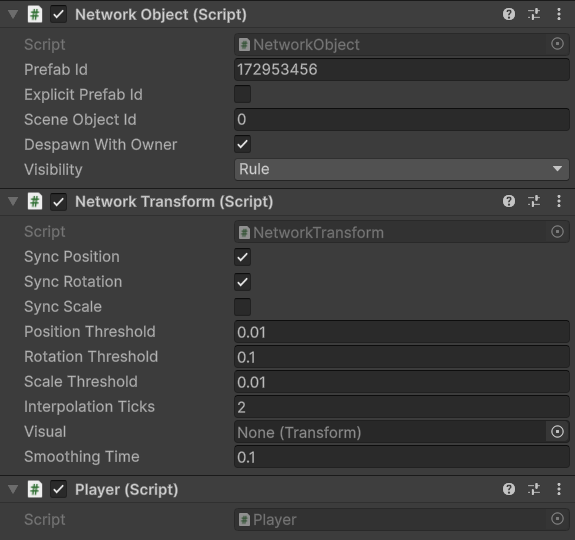
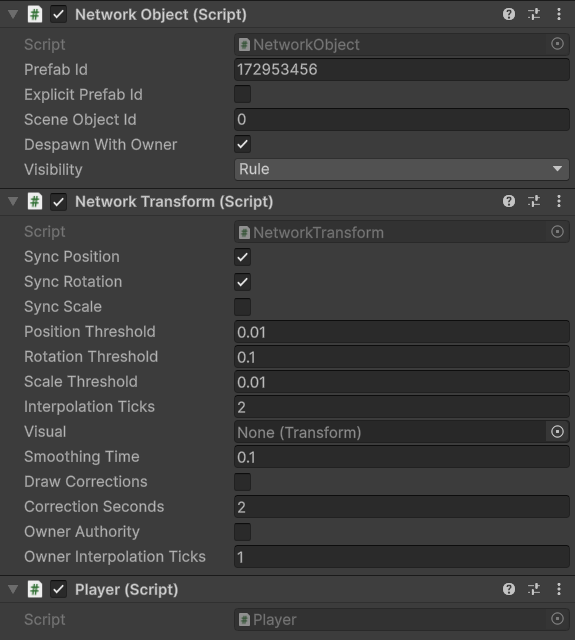
Let the owner decide a NetworkTransform in the Unity tier

diff --git a/diagrams/d_concepts.py b/diagrams/d_concepts.py
@@ -229,9 +229,9 @@ def tick_numbers(language):
 @diagram('authority')
 def authority(language):
     t = translator(language)
-    canvas = Canvas(920, 316, t('What a client can send and what the package checks', 'Client gửi được gì và package kiểm tra gì'))
-    canvas.box(30, 40, 150, 190, 'client', t('Client', 'Client'), [t('asks', 'xin phép')])
-    canvas.box(740, 40, 150, 190, 'server', t('Server', 'Server'), [t('decides', 'quyết định')])
+    canvas = Canvas(920, 400, t('What a client can send and what the package checks', 'Client gửi được gì và package kiểm tra gì'))
+    canvas.box(30, 40, 150, 256, 'client', t('Client', 'Client'), [t('asks', 'xin phép')])
+    canvas.box(740, 40, 150, 256, 'server', t('Server', 'Server'), [t('decides', 'quyết định')])
     paths = [
         ('server RPC', t('checked: the caller owns the object,', 'kiểm tra: người gọi là owner,'),
          t('unless RequireOwnership = false', 'trừ khi RequireOwnership = false'), 'client'),
@@ -239,6 +239,8 @@ def authority(language):
          t('and the tick is not past or too far ahead', 'và tick không quá cũ hay quá xa'), 'client'),
         (t('raw message', 'raw message'), t('not checked: the handler gets', 'không kiểm tra: handler nhận'),
          t('the sender\'s peer id', 'peer id của người gửi'), 'muted'),
+        (t('owner transform', 'owner transform'), t('checked: the sender is the current owner and the server', 'kiểm tra: người gửi là owner hiện tại và được server'),
+         t('lets it decide; OwnerSampleFilter can check the values', 'cho quyết định; OwnerSampleFilter kiểm tra được giá trị'), 'client'),
     ]
     for index, (name, first, second, kind) in enumerate(paths):
         y = 56 + index * 66
@@ -246,11 +248,14 @@ def authority(language):
         canvas.text(206, y + 2, name, 12.5, 700, color=INK, mono=index < 2)
         canvas.text(330, y + 2, first, 12, 400, color='#374151')
         canvas.text(330, y + 19, second, 12, 400, color=MUTED)
-    canvas.text(30, 266, t('The package checks who sends, not what is sent. Check values such as speeds and positions in your handler.',
+    canvas.text(30, 332, t('The package checks who sends, not what is sent. Check values such as speeds and positions in your handler.',
                            'Package kiểm tra ai gửi, không kiểm tra nội dung gửi. Hãy tự kiểm tra các giá trị như tốc độ, vị trí trong handler.'),
                 12.5, 600, color=KINDS['accent'][2])
-    canvas.text(30, 292, t('Only the server spawns, despawns, changes owners, changes state, moves objects, loads network scenes and chooses observers.',
-                           'Chỉ server spawn, despawn, đổi owner, đổi state, dời object, load network scene và chọn observer.'),
+    canvas.text(30, 358, t('Only the server spawns, despawns, changes owners, changes state, loads network scenes and chooses observers.',
+                           'Chỉ server spawn, despawn, đổi owner, đổi state, load network scene và chọn observer.'),
+                12.5, 400, color=MUTED)
+    canvas.text(30, 376, t('It also moves objects, unless it lets the owner decide a NetworkTransform.',
+                           'Server cũng dời object, trừ khi cho owner quyết định một NetworkTransform.'),
                 12.5, 400, color=MUTED)
     return canvas
 

diff --git a/synchronization/transform.md b/synchronization/transform.md
@@ -63,9 +63,69 @@ Clients then jump to the new values instead of interpolating across the distance
 
 For an object with a physics body, set the body's position as well, as described in [NetworkBody](../physics/physics-body.md#teleporting).
 
+## Letting the owner decide
+
+Some objects should move on the owner's screen the moment the player presses a key, without the input and replay of [prediction](../concepts/prediction.md). Turn on Owner Authority on their `NetworkTransform`. The owner's client then reads its own transform after every tick and sends it to the server with the same thresholds, updates and settle that the server uses. The server shows the owner's movement up to Owner Interpolation Ticks (1 by default) behind the owner's newest sample, writes it into the object and forwards it to every other observer. With 0 the server applies each sample on the tick it arrives, which adds no delay but passes the owner's jitter on to everyone else.
+
+Owner Authority is only the starting value. The server reads it when the object spawns, and only the server can change `OwnerAuthority` later, for example to take a character back during a cutscene. Setting it on a client after spawn throws `InvalidOperationException`, and the flag in a client build has no effect. An object without an owner stays with the server.
+
+The owner's client knows it may move the object while `IsOwnerSending` is true. Move the transform only then, because anything you set while the server decides is overwritten:
+
+```csharp
+using Fomoxa.Unity;
+using UnityEngine;
+
+public sealed class OwnerWalker : NetworkBehaviour
+{
+    [SerializeField] private float speed = 4f;
+
+    private void Update()
+    {
+        if (!GetComponent<NetworkTransform>().IsOwnerSending)
+        {
+            return;
+        }
+
+        var direction = new Vector3(Input.GetAxisRaw("Horizontal"), 0f, Input.GetAxisRaw("Vertical"));
+        transform.position += direction * (speed * Time.deltaTime);
+    }
+}
+```
+
+On the server, a `Rigidbody`, `Rigidbody2D` or Rapier body on the same GameObject becomes kinematic while the owner decides, and the server moves it to each pose it applies. The body gets its old kind back when the owner stops deciding or the object despawns. The owner's client keeps the body as you set it up. If that client also predicts physics, the object stays a kinematic proxy there like any other object it does not predict, so move it through its transform.
+
+### Checking the owner's samples
+
+The server can still refuse a sample. Set `OwnerSampleFilter` on the server to look at each sample before it is applied. It receives the last sample the server accepted, the incoming one with every synced part filled in, and the number of the owner's ticks between them. Return `false` to drop the incoming sample:
+
+```csharp
+using Fomoxa.Unity;
+using UnityEngine;
+
+public sealed class SpeedLimit : NetworkBehaviour
+{
+    [SerializeField] private float maxSpeed = 6f;
+
+    public override void OnStartServer()
+    {
+        float tickSeconds = (float)NetworkManager.TimeManager.TickDelta;
+        GetComponent<NetworkTransform>().OwnerSampleFilter = (in NetworkTransformSample accepted, in NetworkTransformSample incoming, uint ticks) =>
+            ticks == 0 || Vector3.Distance(accepted.LocalPosition, incoming.LocalPosition) <= maxSpeed * ticks * tickSeconds;
+    }
+}
+```
+
+`ticks` is 0 for the first sample after the owner starts deciding and for a teleport by the owner. In both cases `accepted` holds the pose the server has at that moment. A dropped sample is not applied or forwarded, and the owner is not told. To put the owner back where the server wants it, set the transform on the server and call `Teleport()`. The owner jumps there and goes on sending from the new place, and the server ignores whatever the owner sent before it got the correction. The filter runs while the server delivers the owner's message, so an exception thrown by it is a [handler exception](../concepts/error-handling.md#exceptions-in-server-handlers): the server raises `OnHandlerException` and closes the owner's connection unless a subscriber clears `Disconnect`.
+
+The owner can call `Teleport()` too, after moving its own object somewhere new. The server then applies that sample at once instead of interpolating to it, and makes the other clients jump.
+
+### Not with prediction
+
+An object cannot be both predicted and decided by its owner, because both would write the owner's pose. A player build fails when a prefab or a scene object has a `NetworkTransform` with Owner Authority on and any of its behaviours declares a `[NetworkInput]` or `[NetworkReconcile]` field. At run time, spawning such an object with Owner Authority on, or turning it on later, throws `InvalidOperationException` on the server.
+
 ## Configuration
 
-<figure><img src="../.gitbook/assets/screenshots/network-transform-inspector.png" alt="The Inspector of a NetworkTransform with its defaults: Sync Position and Sync Rotation on, Sync Scale off, Position Threshold 0.01, Rotation Threshold 0.1, Scale Threshold 0.01, Interpolation Ticks 2, Visual None and Smoothing Time 0.1." width="460"><figcaption><p>A NetworkTransform with its default values.</p></figcaption></figure>
+<figure><img src="../.gitbook/assets/screenshots/network-transform-inspector.png" alt="The Inspector of a NetworkTransform with its defaults: Sync Position and Sync Rotation on, Sync Scale off, Position Threshold 0.01, Rotation Threshold 0.1, Scale Threshold 0.01, Interpolation Ticks 2, Visual None, Smoothing Time 0.1, Draw Corrections off, Correction Seconds 2, Owner Authority off and Owner Interpolation Ticks 1." width="460"><figcaption><p>A NetworkTransform with its default values.</p></figcaption></figure>
 
 | Field | Default | Meaning |
 |---|---|---|
@@ -78,11 +138,13 @@ For an object with a physics body, set the body's position as well, as described
 | Interpolation Ticks | 2 | At most how many ticks behind the newest snapshot clients show the object |
 | Visual | none | A child transform that is smoothed after prediction corrections |
 | Smoothing Time | 0.1 | Seconds over which the Visual returns to its rest position |
+| Owner Authority | off | Let the owner's client decide the transform, starting at spawn |
+| Owner Interpolation Ticks | 1 | How many of the owner's ticks behind its newest sample the server applies the owner's movement |
 
-`Visual` and `SmoothingTime` can also be set from code, while the sync flags and `InterpolationTicks` are read-only there.
+`Visual` and `SmoothingTime` can also be set from code, and `OwnerAuthority` can be set on the server, while the sync flags, `InterpolationTicks` and `OwnerInterpolationTicks` are read-only there.
 
 ## Limitations
 
-Transforms flow from the server to clients only, and a client can move a networked object for others only through RPCs or input. Values are replicated in local space, and re-parenting a replicated object at run time is not replicated. Movement that stays within a threshold of the last sent value is only sent once the object stops. On a host, the server's transform is shown as it is, without interpolation for the host's own view.
+Unless Owner Authority is on, transforms flow from the server to clients only, and a client can move a networked object for others only through RPCs or input. Values are replicated in local space, and re-parenting a replicated object at run time is not replicated. Movement that stays within a threshold of the last sent value is only sent once the object stops. On a host, the server's transform is shown as it is, without interpolation for the host's own view.
 
 [Replication](../concepts/replication.md) explains how transform messages fit with the other messages, the [prediction overview](../prediction/overview.md) shows `NetworkTransform` on a predicted character, and the [components reference](../reference/components.md#networktransform) lists its members.

diff --git a/vi/concepts/authority.md b/vi/concepts/authority.md
@@ -2,13 +2,13 @@
 
 Package theo mô hình server-authoritative. Server giữ game state thật và là phía duy nhất thay đổi được những gì người chơi khác nhìn thấy. Client chỉ có thể xin một thay đổi, còn server quyết định nó có xảy ra hay không. Một client gian lận vì thế có thể gửi yêu cầu sai, nhưng không thể trực tiếp thay đổi thế giới game.
 
-<figure><img src="../.gitbook/assets/diagrams/authority.svg" alt="Client gửi ba loại message tới server. Server RPC được kiểm tra: người gọi phải là owner của object, trừ khi RequireOwnership là false. Input được kiểm tra: người gửi phải là owner và tick không được quá cũ hay quá xa. Raw message không được kiểm tra; handler nhận peer id của người gửi. Package kiểm tra ai gửi, không kiểm tra nội dung gửi. Chỉ server spawn, despawn, đổi owner, đổi state, dời object, load network scene và chọn observer."><figcaption><p>Ba đường client có thể tới server, và package kiểm tra gì trên mỗi đường.</p></figcaption></figure>
+<figure><img src="../.gitbook/assets/diagrams/authority.svg" alt="Client gửi bốn loại message tới server. Server RPC được kiểm tra: người gọi phải là owner của object, trừ khi RequireOwnership là false. Input được kiểm tra: người gửi phải là owner và tick không được quá cũ hay quá xa. Raw message không được kiểm tra; handler nhận peer id của người gửi. Owner transform được kiểm tra: người gửi phải là owner hiện tại và được server cho quyết định, và OwnerSampleFilter kiểm tra được giá trị. Package kiểm tra ai gửi, không kiểm tra nội dung gửi. Chỉ server spawn, despawn, đổi owner, đổi state, load network scene và chọn observer. Server cũng dời object, trừ khi cho owner quyết định một NetworkTransform."><figcaption><p>Bốn đường client có thể tới server, và package kiểm tra gì trên mỗi đường.</p></figcaption></figure>
 
 ## Những việc chỉ server làm <a href="#what-only-the-server-does" id="what-only-the-server-does"></a>
 
 Chỉ server spawn, despawn network object và đổi owner của chúng. Gọi `ServerManager.Spawn` trên một tiến trình không chạy server sẽ ném `the server is not started`.
 
-State model và [collection](../synchronization/collections.md) thay đổi trên server rồi đi xuống client, không bao giờ theo chiều ngược lại. Thay đổi một collection đã spawn trên client sẽ ném exception. Chuyển động cũng vậy: `NetworkTransform` gửi transform của server xuống client và không gửi thay đổi transform của client lên, và chỉ parameter `NetworkAnimator` của server tới được người chơi khác.
+State model và [collection](../synchronization/collections.md) thay đổi trên server rồi đi xuống client, không bao giờ theo chiều ngược lại. Thay đổi một collection đã spawn trên client sẽ ném exception. Chuyển động cũng vậy: `NetworkTransform` gửi transform của server xuống client và không gửi thay đổi transform của client lên, trừ khi server cho owner quyết định như mô tả bên dưới, và chỉ parameter `NetworkAnimator` của server tới được người chơi khác.
 
 Server cũng load và unload network scene, và quyết định client nào observe object nào.
 
@@ -19,12 +19,17 @@ Server cũng load và unload network scene, và quyết định client nào obse
 | Server RPC | Người gọi phải là owner của object, trừ khi RPC đặt `RequireOwnership = false`. Lời gọi từ peer khác bị bỏ kèm một cảnh báo. | [RPC](../messaging/rpc.md) |
 | Input cho object được dự đoán | Người gửi phải là owner của object. Input từ peer khác bị bỏ kèm một cảnh báo. Input cho tick đã qua, hoặc quá xa phía trước, bị bỏ và được đếm. | [Input](../prediction/input.md) |
 | Raw message | Không kiểm tra. Handler nhận peer id của người gửi và phải tự kiểm tra nội dung. | [Raw message](../messaging/messages.md) |
+| Transform của owner, cho `NetworkTransform` bật Owner Authority | Người gửi phải là owner hiện tại, và server phải đã cho nó quyết định. Mẫu từ một lượt trước hoặc từ trước một bản sửa bị bỏ. `OwnerSampleFilter` kiểm tra được giá trị. | [NetworkTransform](../synchronization/transform.md#letting-the-owner-decide) |
 
 Package kiểm tra ai được gửi, nhưng không kiểm tra nội dung có hợp lý hay không, như một tốc độ hay một vị trí. Hãy kiểm tra tham số trong handler RPC hoặc handler input trên server.
 
 ## Ownership không phải authority <a href="#ownership-is-not-authority" id="ownership-is-not-authority"></a>
 
 Owner là peer mà object thuộc về, như nhân vật thuộc về người chơi của nó. Ownership cho phép client đó gọi server RPC của object, và nếu object có input model, owner cũng dự đoán nó. Server vẫn là bên chạy object, và sửa prediction của owner khi nó khác kết quả của chính server. [Ownership](../objects/ownership.md) mô tả cách gán và đổi owner.
+
+## Khi owner quyết định một transform <a href="#when-the-owner-decides-a-transform" id="when-the-owner-decides-a-transform"></a>
+
+`NetworkTransform` bật Owner Authority cho client của owner quyết định đúng transform đó, nên owner di chuyển ngay mà không cần prediction. Server vẫn quyết định khi nào owner được làm vậy, chỉ nhận mẫu từ owner hiện tại, bỏ được bất kỳ mẫu nào trong `OwnerSampleFilter` và đưa owner về chỗ cũ được bằng `Teleport()`. Mọi thứ khác của object vẫn thuộc về server. Một owner gian lận có thể dời object như vậy tới bất cứ đâu bộ lọc cho phép, và trên server, va chạm và trigger sẽ dùng pose đó. Hãy dùng chế độ này cho object mà điều đó chấp nhận được, hoặc kiểm tra mẫu trong bộ lọc.
 
 ## Prediction vẫn do server quyết định <a href="#prediction-stays-server-authoritative" id="prediction-stays-server-authoritative"></a>
 

diff --git a/concepts/authority.md b/concepts/authority.md
@@ -2,13 +2,13 @@
 
 The package is server-authoritative. The server holds the real game state and is the only side that can change what other players see. A client can only ask for a change, and the server decides whether it happens. A cheating client can therefore send bad requests, but it cannot change the world directly.
 
-<figure><img src="../.gitbook/assets/diagrams/authority.svg" alt="A client sends three kinds of message to the server. A server RPC is checked: the caller must own the object unless RequireOwnership is false. Input is checked: the sender must own the object and the tick must not be past or too far ahead. A raw message is not checked; its handler gets the sender's peer id. The package checks who sends, not what is sent. Only the server spawns, despawns, changes owners, changes state, moves objects, loads network scenes and chooses observers."><figcaption><p>The three ways a client can reach the server, and what the package checks on each.</p></figcaption></figure>
+<figure><img src="../.gitbook/assets/diagrams/authority.svg" alt="A client sends four kinds of message to the server. A server RPC is checked: the caller must own the object unless RequireOwnership is false. Input is checked: the sender must own the object and the tick must not be past or too far ahead. A raw message is not checked; its handler gets the sender's peer id. An owner transform is checked: the sender must be the current owner and the server must let it decide, and OwnerSampleFilter can check the values. The package checks who sends, not what is sent. Only the server spawns, despawns, changes owners, changes state, loads network scenes and chooses observers. It also moves objects, unless it lets the owner decide a NetworkTransform."><figcaption><p>The four ways a client can reach the server, and what the package checks on each.</p></figcaption></figure>
 
 ## What only the server does
 
 Only the server spawns and despawns network objects and changes their owners. Calling `ServerManager.Spawn` on a process that is not running a server throws `the server is not started`.
 
-State models and [collections](../synchronization/collections.md) change on the server and flow to clients, never the other way. Changing a spawned collection on a client throws. The same holds for movement: `NetworkTransform` sends the server's transform to clients and does not send a client's transform changes, and only the server's `NetworkAnimator` parameters reach other players.
+State models and [collections](../synchronization/collections.md) change on the server and flow to clients, never the other way. Changing a spawned collection on a client throws. The same holds for movement: `NetworkTransform` sends the server's transform to clients and does not send a client's transform changes, unless the server lets the owner decide it as described below, and only the server's `NetworkAnimator` parameters reach other players.
 
 The server also loads and unloads network scenes, and decides which clients observe which objects.
 
@@ -19,12 +19,17 @@ The server also loads and unloads network scenes, and decides which clients obse
 | Server RPC | The caller must own the object, unless the RPC sets `RequireOwnership = false`. Calls from other peers are dropped with a warning. | [RPCs](../messaging/rpc.md) |
 | Input for a predicted object | The sender must own the object. Input from other peers is dropped with a warning. Input for ticks that are already past, or too far ahead, is dropped and counted. | [Input](../prediction/input.md) |
 | Raw message | Not checked. The handler receives the sender's peer id and must validate the content. | [Raw messages](../messaging/messages.md) |
+| The owner's transform, for a `NetworkTransform` with Owner Authority on | The sender must be the current owner, and the server must have let it decide. Samples from an earlier turn or from before a correction are dropped. `OwnerSampleFilter` can check the values. | [NetworkTransform](../synchronization/transform.md#letting-the-owner-decide) |
 
 The package checks who may send, but not whether the content is reasonable, such as a speed or a position. Validate arguments in the RPC or input handler on the server.
 
 ## Ownership is not authority
 
 An owner is the peer that an object belongs to, as a player character belongs to its player. Ownership lets that client call the object's server RPCs, and if the object has an input model, the owner also predicts it. The server still runs the object, and corrects the owner's prediction when it differs from the server's own result. [Ownership](../objects/ownership.md) describes how owners are assigned and changed.
+
+## When the owner decides a transform
+
+A `NetworkTransform` with Owner Authority on lets the owner's client decide that one transform, so the owner moves at once without prediction. The server still decides when the owner may do so, accepts samples only from the current owner, can drop any sample in `OwnerSampleFilter` and can put the owner back with `Teleport()`. Everything else about the object stays with the server. A cheating owner can move such an object wherever the filter lets it, and on the server, collisions and triggers then use that pose. Use it for objects where that is acceptable, or check the samples in the filter.
 
 ## Prediction stays server-authoritative
 

diff --git a/vi/reference/components.md b/vi/reference/components.md
@@ -17,8 +17,16 @@ Trang này nói về các component và asset trong `Fomoxa.Unity` ngoài `Netwo
 | `LastCorrection` | `TransformCorrection?` | Lần sửa gần nhất; `null` cho tới lần đầu |
 | `DrawCorrections` | `bool` | Get và set. Vẽ các lần sửa thành gizmo trong Editor. |
 | `CorrectionSeconds` | `float` | Get và set; giá trị dưới 0.1 thành 0.1 |
+| `OwnerAuthority` | `bool` | Client của owner có quyết định transform hay không, xem [cho owner quyết định](../synchronization/transform.md#letting-the-owner-decide). Trước khi spawn, nó đặt giá trị ban đầu; sau khi spawn chỉ server đặt được, và đặt trên client sẽ ném `InvalidOperationException`. Bật nó cho object có behaviour dự đoán sẽ ném `InvalidOperationException`. |
+| `OwnerInterpolationTicks` | `int` | Số tick của owner mà server áp chậm so với mẫu mới nhất của owner; chỉ đọc |
+| `OwnerSampleFilter` | `NetworkOwnerSampleFilter` | Get và set trên server. Được gọi cho mỗi mẫu của owner trước khi áp; trả `false` thì bỏ mẫu. `null` nhận mọi mẫu. |
+| `IsOwnerSending` | `bool` | `true` trên client của owner trong lúc server cho nó quyết định; `false` trên server, trên client khác và trước khi spawn |
 
 `TransformCorrection` là một `public readonly struct` trong `Fomoxa.Unity` với `uint Tick`, `Vector3 PositionBefore`, `PositionAfter`, `PositionOffset`, `Quaternion RotationBefore`, `RotationAfter` và `float RotationDegrees`.
+
+`public delegate bool NetworkOwnerSampleFilter(in NetworkTransformSample accepted, in NetworkTransformSample incoming, uint ticks)` trong `Fomoxa.Unity` là kiểu của `OwnerSampleFilter`. `accepted` là mẫu cuối mà server đã nhận, hoặc pose của server ở mẫu đầu tiên của một lượt và ở lần owner teleport, khi đó `ticks` bằng 0. Ngoài hai trường hợp đó, `ticks` là số tick của owner giữa hai mẫu.
+
+`NetworkTransformSample` là một `public readonly struct` trong `Fomoxa.Unity`, xem một `TransformSample` của Core bằng kiểu Unity: `uint Tick` (tick của owner), `byte Mask` (bit 1 vị trí, 2 góc xoay, 4 tỉ lệ: các phần owner gửi trong mẫu này), `Vector3 LocalPosition`, `Quaternion LocalRotation`, `Vector3 LocalScale`, `bool Settle`, `byte Generation`, `TransformSample Core` mà nó bọc, và hàm tạo công khai `NetworkTransformSample(TransformSample core)`. Các phần không có trong `Mask` mang giá trị của `accepted`.
 
 ## NetworkStatsDisplay <a href="#networkstatsdisplay" id="networkstatsdisplay"></a>
 

diff --git a/vi/console-server/reference.md b/vi/console-server/reference.md
@@ -67,7 +67,8 @@ Trên client console, factory phải trả về một entity chưa spawn.
 | `NetworkSettings` | `Fomoxa.Networking` | Các thiết lập mà Inspector của `NetworkManager` giữ trong Unity, dưới dạng property với cùng giá trị mặc định, và `PhysicsBackend`. Ngoại lệ là `StateMarkWarning`, một `TimeSpan` mặc định bằng 0, nên [phép kiểm quên đánh dấu state](../advanced/debugging.md#forgotten-state-marks) tắt trừ khi bạn đặt nó |
 | `NetworkLog` | `Fomoxa.Networking` | `NetworkLog(Action<Exception> exception, Action<string> warning)`, một overload thêm `Action<string> error`, và `NetworkLog.Console` |
 | `EntityBehaviour` | `Fomoxa.Networking` | Class cơ sở của behaviour console, với các callback và phần đăng ký của `NetworkBehaviour`, `SetStateDirty()`, `SyncTransform(TransformSync, ITransformReceiver)` cho tư thế của entity, `SyncTransform(TransformSync, ChildBody, ITransformReceiver)` cho tư thế của một body con so với entity và `SyncTransform(TransformSync, ITransformSource, ITransformReceiver)` cho nguồn khác |
-| `TransformSync`, `TransformSyncSettings` | `Fomoxa.Networking` | Luật gửi của `NetworkTransform`: `TransformSyncSettings(syncPosition, syncRotation, syncScale, positionThreshold, rotationThreshold, scaleThreshold)`, `TransformSync.Teleport()` |
+| `TransformSync`, `TransformSyncSettings` | `Fomoxa.Networking` | Luật gửi của `NetworkTransform`: `TransformSyncSettings(syncPosition, syncRotation, syncScale, positionThreshold, rotationThreshold, scaleThreshold)`, `TransformSync.Teleport()`, và để [cho owner quyết định](../synchronization/transform.md#letting-the-owner-decide): `OwnerAuthority`, `OwnerInterpolationTicks`, `OwnerSampleFilter` và `IsOwnerSending` |
+| `ITransformWriter`, `OwnerSampleFilter` | `Fomoxa.Networking` | `WriteLocal(in position, in rotation, in scale)`, server gọi để áp pose của owner khi owner quyết định và source là của bạn; bật `OwnerAuthority` cho source không cài nó sẽ ném `InvalidOperationException`. `bool OwnerSampleFilter(in TransformSample accepted, in TransformSample incoming, uint ticks)` |
 | `ITransformSource`, `ITransformReceiver`, `TransformSample` | `Fomoxa.Networking` | `ReadLocal(out position, out rotation, out scale)` trên server; `ResetReceive()` và `Receive(in TransformSample)` trên client |
 | `INetworkEntity`, `EntityRecord` | `Fomoxa.Networking` | Interface mà manager spawn, và bản ghi của một entity đã spawn: `ObjectId`, `OwnerId`, `IsOwner`, `OnServer`, `OnClient`, `Representation` |
 

diff --git a/console-server/reference.md b/console-server/reference.md
@@ -67,7 +67,8 @@ On a console client, the factory must return an entity that is not spawned.
 | `NetworkSettings` | `Fomoxa.Networking` | The settings that the `NetworkManager` Inspector holds in Unity, as properties with the same defaults, and `PhysicsBackend`. The exception is `StateMarkWarning`, a `TimeSpan` that is zero by default, so the [forgotten state mark check](../advanced/debugging.md#forgotten-state-marks) is off unless you set it |
 | `NetworkLog` | `Fomoxa.Networking` | `NetworkLog(Action<Exception> exception, Action<string> warning)`, an overload that adds `Action<string> error`, and `NetworkLog.Console` |
 | `EntityBehaviour` | `Fomoxa.Networking` | The base class of console behaviours, with the callbacks and registrations of `NetworkBehaviour`, `SetStateDirty()`, `SyncTransform(TransformSync, ITransformReceiver)` for the pose of the entity, `SyncTransform(TransformSync, ChildBody, ITransformReceiver)` for the pose of a child body relative to the entity and `SyncTransform(TransformSync, ITransformSource, ITransformReceiver)` for another source |
-| `TransformSync`, `TransformSyncSettings` | `Fomoxa.Networking` | The send rules of `NetworkTransform`: `TransformSyncSettings(syncPosition, syncRotation, syncScale, positionThreshold, rotationThreshold, scaleThreshold)`, `TransformSync.Teleport()` |
+| `TransformSync`, `TransformSyncSettings` | `Fomoxa.Networking` | The send rules of `NetworkTransform`: `TransformSyncSettings(syncPosition, syncRotation, syncScale, positionThreshold, rotationThreshold, scaleThreshold)`, `TransformSync.Teleport()`, and for [letting the owner decide](../synchronization/transform.md#letting-the-owner-decide) `OwnerAuthority`, `OwnerInterpolationTicks`, `OwnerSampleFilter` and `IsOwnerSending` |
+| `ITransformWriter`, `OwnerSampleFilter` | `Fomoxa.Networking` | `WriteLocal(in position, in rotation, in scale)`, which the server calls to apply the owner's pose when the owner decides and the source is your own; turning on `OwnerAuthority` for a source without it throws `InvalidOperationException`. `bool OwnerSampleFilter(in TransformSample accepted, in TransformSample incoming, uint ticks)` |
 | `ITransformSource`, `ITransformReceiver`, `TransformSample` | `Fomoxa.Networking` | `ReadLocal(out position, out rotation, out scale)` on the server; `ResetReceive()` and `Receive(in TransformSample)` on a client |
 | `INetworkEntity`, `EntityRecord` | `Fomoxa.Networking` | The interface the managers spawn, and the record of a spawned entity: `ObjectId`, `OwnerId`, `IsOwner`, `OnServer`, `OnClient`, `Representation` |
 

diff --git a/reference/components.md b/reference/components.md
@@ -17,8 +17,16 @@ This page covers the components and assets in `Fomoxa.Unity` other than `Network
 | `LastCorrection` | `TransformCorrection?` | The last correction; `null` until the first one |
 | `DrawCorrections` | `bool` | Get and set. Draws corrections as gizmos in the Editor. |
 | `CorrectionSeconds` | `float` | Get and set; values below 0.1 become 0.1 |
+| `OwnerAuthority` | `bool` | Whether the owner's client decides the transform, see [letting the owner decide](../synchronization/transform.md#letting-the-owner-decide). Before spawn it sets the starting value; after spawn only the server can set it, and setting it on a client throws `InvalidOperationException`. Turning it on for an object whose behaviours predict throws `InvalidOperationException`. |
+| `OwnerInterpolationTicks` | `int` | Owner ticks behind the owner's newest sample that the server applies; read only |
+| `OwnerSampleFilter` | `NetworkOwnerSampleFilter` | Get and set on the server. Called for each sample of the owner before it is applied; returning `false` drops it. `null` accepts every sample. |
+| `IsOwnerSending` | `bool` | `true` on the owner's client while the server lets it decide; `false` on the server, on other clients and before spawn |
 
 `TransformCorrection` is a `public readonly struct` in `Fomoxa.Unity` with `uint Tick`, `Vector3 PositionBefore`, `PositionAfter`, `PositionOffset`, `Quaternion RotationBefore`, `RotationAfter` and `float RotationDegrees`.
+
+`public delegate bool NetworkOwnerSampleFilter(in NetworkTransformSample accepted, in NetworkTransformSample incoming, uint ticks)` in `Fomoxa.Unity` is the type of `OwnerSampleFilter`. `accepted` is the last sample the server accepted, or the server's pose for the first sample of a turn and for a teleport by the owner, when `ticks` is 0. Otherwise `ticks` is the number of the owner's ticks between the two samples.
+
+`NetworkTransformSample` is a `public readonly struct` in `Fomoxa.Unity` that views a Core `TransformSample` with Unity types: `uint Tick` (the owner's tick), `byte Mask` (bit 1 position, 2 rotation, 4 scale: the parts the owner sent in this sample), `Vector3 LocalPosition`, `Quaternion LocalRotation`, `Vector3 LocalScale`, `bool Settle`, `byte Generation`, the `TransformSample Core` it wraps, and a public constructor `NetworkTransformSample(TransformSample core)`. The parts missing from `Mask` hold the values of `accepted`.
 
 ## NetworkStatsDisplay
 

diff --git a/vi/reference/api.md b/vi/reference/api.md
@@ -10,7 +10,7 @@ Trang này liệt kê các public type của package theo namespace. Type đánh
 | `TransportManager` | Class | [Tham chiếu NetworkManager](network-manager.md#transportmanager) |
 | `NetworkObject` | Component | [Tham chiếu](network-object.md) |
 | `NetworkBehaviour` | Component trừu tượng | [Tham chiếu](network-object.md#networkbehaviour) |
-| `NetworkTransform`, `NetworkAnimator`, `TransformCorrection` | Component, struct | [Component](components.md) |
+| `NetworkTransform`, `NetworkAnimator`, `TransformCorrection`, `NetworkTransformSample`, `NetworkOwnerSampleFilter` | Component, struct, delegate | [Component](components.md) |
 | `NetworkStatsDisplay`, `ScreenCorner` | Component, enum | [Component](components.md#networkstatsdisplay) |
 | `NetworkCollision`, `NetworkTrigger`, `NetworkCollision2D`, `NetworkTrigger2D`, `IContactQuery`, `IContactQuery2D` | Component, interface | [Component](components.md#contact-components) |
 | `ObserverRule`, `DistanceRule`, `ObserverRange` | Type asset, component | [Component](components.md#observers) |
@@ -42,7 +42,7 @@ Trang này liệt kê các public type của package theo namespace. Type đánh
 | `IServerAuthenticator`, `IClientAuthenticator`, `ServerAuthentication`, `ClientAuthentication`, `ServerAuthenticationContext`, `ClientAuthenticationContext` | Interface, class | [Xác thực](../connections/authentication.md) |
 | `TransferTickets`, `IUsedTicketStore`, `MemoryUsedTicketStore` | Class, interface, class | [Chuyển server](../connections/transfer.md#transfertickets) |
 | `ConnectTokens` | Class | [UDP mã hóa](../connections/transports/encrypted-udp.md#issuing-grants) |
-| `EntityBehaviour`, `EntityRecord`, `NetworkRuntime`, `NetworkSettings`, `NetworkBackends`, `NetworkLog`, `ITransformSource`, `ITransformReceiver`, `TransformSample`, `TransformSync`, `TransformSyncSettings` | Backend contract | [Tham chiếu backend console](../console-server/reference.md) |
+| `EntityBehaviour`, `EntityRecord`, `NetworkRuntime`, `NetworkSettings`, `NetworkBackends`, `NetworkLog`, `ITransformSource`, `ITransformReceiver`, `ITransformWriter`, `TransformSample`, `TransformSync`, `TransformSyncSettings`, `OwnerSampleFilter` | Backend contract | [Tham chiếu backend console](../console-server/reference.md) |
 
 ## Fomoxa.Networking.Messaging <a href="#fomoxanetworkingmessaging" id="fomoxanetworkingmessaging"></a>
 

diff --git a/reference/api.md b/reference/api.md
@@ -10,7 +10,7 @@ This page lists the public types of the package by namespace. Types marked "buil
 | `TransportManager` | Class | [NetworkManager reference](network-manager.md#transportmanager) |
 | `NetworkObject` | Component | [Reference](network-object.md) |
 | `NetworkBehaviour` | Abstract component | [Reference](network-object.md#networkbehaviour) |
-| `NetworkTransform`, `NetworkAnimator`, `TransformCorrection` | Components, struct | [Components](components.md) |
+| `NetworkTransform`, `NetworkAnimator`, `TransformCorrection`, `NetworkTransformSample`, `NetworkOwnerSampleFilter` | Components, structs, delegate | [Components](components.md) |
 | `NetworkStatsDisplay`, `ScreenCorner` | Component, enum | [Components](components.md#networkstatsdisplay) |
 | `NetworkCollision`, `NetworkTrigger`, `NetworkCollision2D`, `NetworkTrigger2D`, `IContactQuery`, `IContactQuery2D` | Components, interfaces | [Components](components.md#contact-components) |
 | `ObserverRule`, `DistanceRule`, `ObserverRange` | Asset types, component | [Components](components.md#observers) |
@@ -42,7 +42,7 @@ This page lists the public types of the package by namespace. Types marked "buil
 | `IServerAuthenticator`, `IClientAuthenticator`, `ServerAuthentication`, `ClientAuthentication`, `ServerAuthenticationContext`, `ClientAuthenticationContext` | Interfaces, classes | [Authentication](../connections/authentication.md) |
 | `TransferTickets`, `IUsedTicketStore`, `MemoryUsedTicketStore` | Class, interface, class | [Server transfer](../connections/transfer.md#transfertickets) |
 | `ConnectTokens` | Class | [Encrypted UDP](../connections/transports/encrypted-udp.md#issuing-grants) |
-| `EntityBehaviour`, `EntityRecord`, `NetworkRuntime`, `NetworkSettings`, `NetworkBackends`, `NetworkLog`, `ITransformSource`, `ITransformReceiver`, `TransformSample`, `TransformSync`, `TransformSyncSettings` | Backend contract | [Console backend reference](../console-server/reference.md) |
+| `EntityBehaviour`, `EntityRecord`, `NetworkRuntime`, `NetworkSettings`, `NetworkBackends`, `NetworkLog`, `ITransformSource`, `ITransformReceiver`, `ITransformWriter`, `TransformSample`, `TransformSync`, `TransformSyncSettings`, `OwnerSampleFilter` | Backend contract | [Console backend reference](../console-server/reference.md) |
 
 ## Fomoxa.Networking.Messaging
 

diff --git a/vi/getting-started/tutorial/project-setup.md b/vi/getting-started/tutorial/project-setup.md
@@ -84,7 +84,7 @@ Class phải là `partial` vì package thêm method đó cùng code đăng ký R
 3. Kéo nó vào `Assets/Prefabs` để tạo prefab, rồi xóa nó khỏi scene.
 4. Chọn **Tools > Fomoxa > Assign Prefab Ids**.
 
-<figure><img src="../../.gitbook/assets/screenshots/player-prefab-inspector.png" alt="Inspector của prefab Player với ba component. Network Object có Prefab Id 172953456, Explicit Prefab Id tắt, Scene Object Id 0, Despawn With Owner bật và Visibility là Rule. Network Transform có Sync Position và Sync Rotation bật, Sync Scale tắt, các ngưỡng 0.01, 0.1 và 0.01, Interpolation Ticks 2, không có Visual và Smoothing Time 0.1. Player không có field nào." width="460"><figcaption><p>Prefab Player sau Assign Prefab Ids. Prefab Id của bạn sẽ là một số khác.</p></figcaption></figure>
+<figure><img src="../../.gitbook/assets/screenshots/player-prefab-inspector.png" alt="Inspector của prefab Player với ba component. Network Object có Prefab Id 172953456, Explicit Prefab Id tắt, Scene Object Id 0, Despawn With Owner bật và Visibility là Rule. Network Transform có Sync Position và Sync Rotation bật, Sync Scale tắt, các ngưỡng 0.01, 0.1 và 0.01, Interpolation Ticks 2, không có Visual, Smoothing Time 0.1, Draw Corrections tắt, Correction Seconds 2, Owner Authority tắt và Owner Interpolation Ticks 1. Player không có field nào." width="460"><figcaption><p>Prefab Player sau Assign Prefab Ids. Prefab Id của bạn sẽ là một số khác.</p></figcaption></figure>
 
 Bước cuối gán cho prefab một prefab id, con số server và client dùng để thống nhất cần spawn gì, và viết `Assets/Network/Generated/FomoxaPrefabList.asset`. Chọn prefab và kiểm tra **Prefab Id** khác 0. Package cũng tự chạy bước này mỗi khi bạn lưu prefab trong Editor, và trước mỗi lần build player.
 
